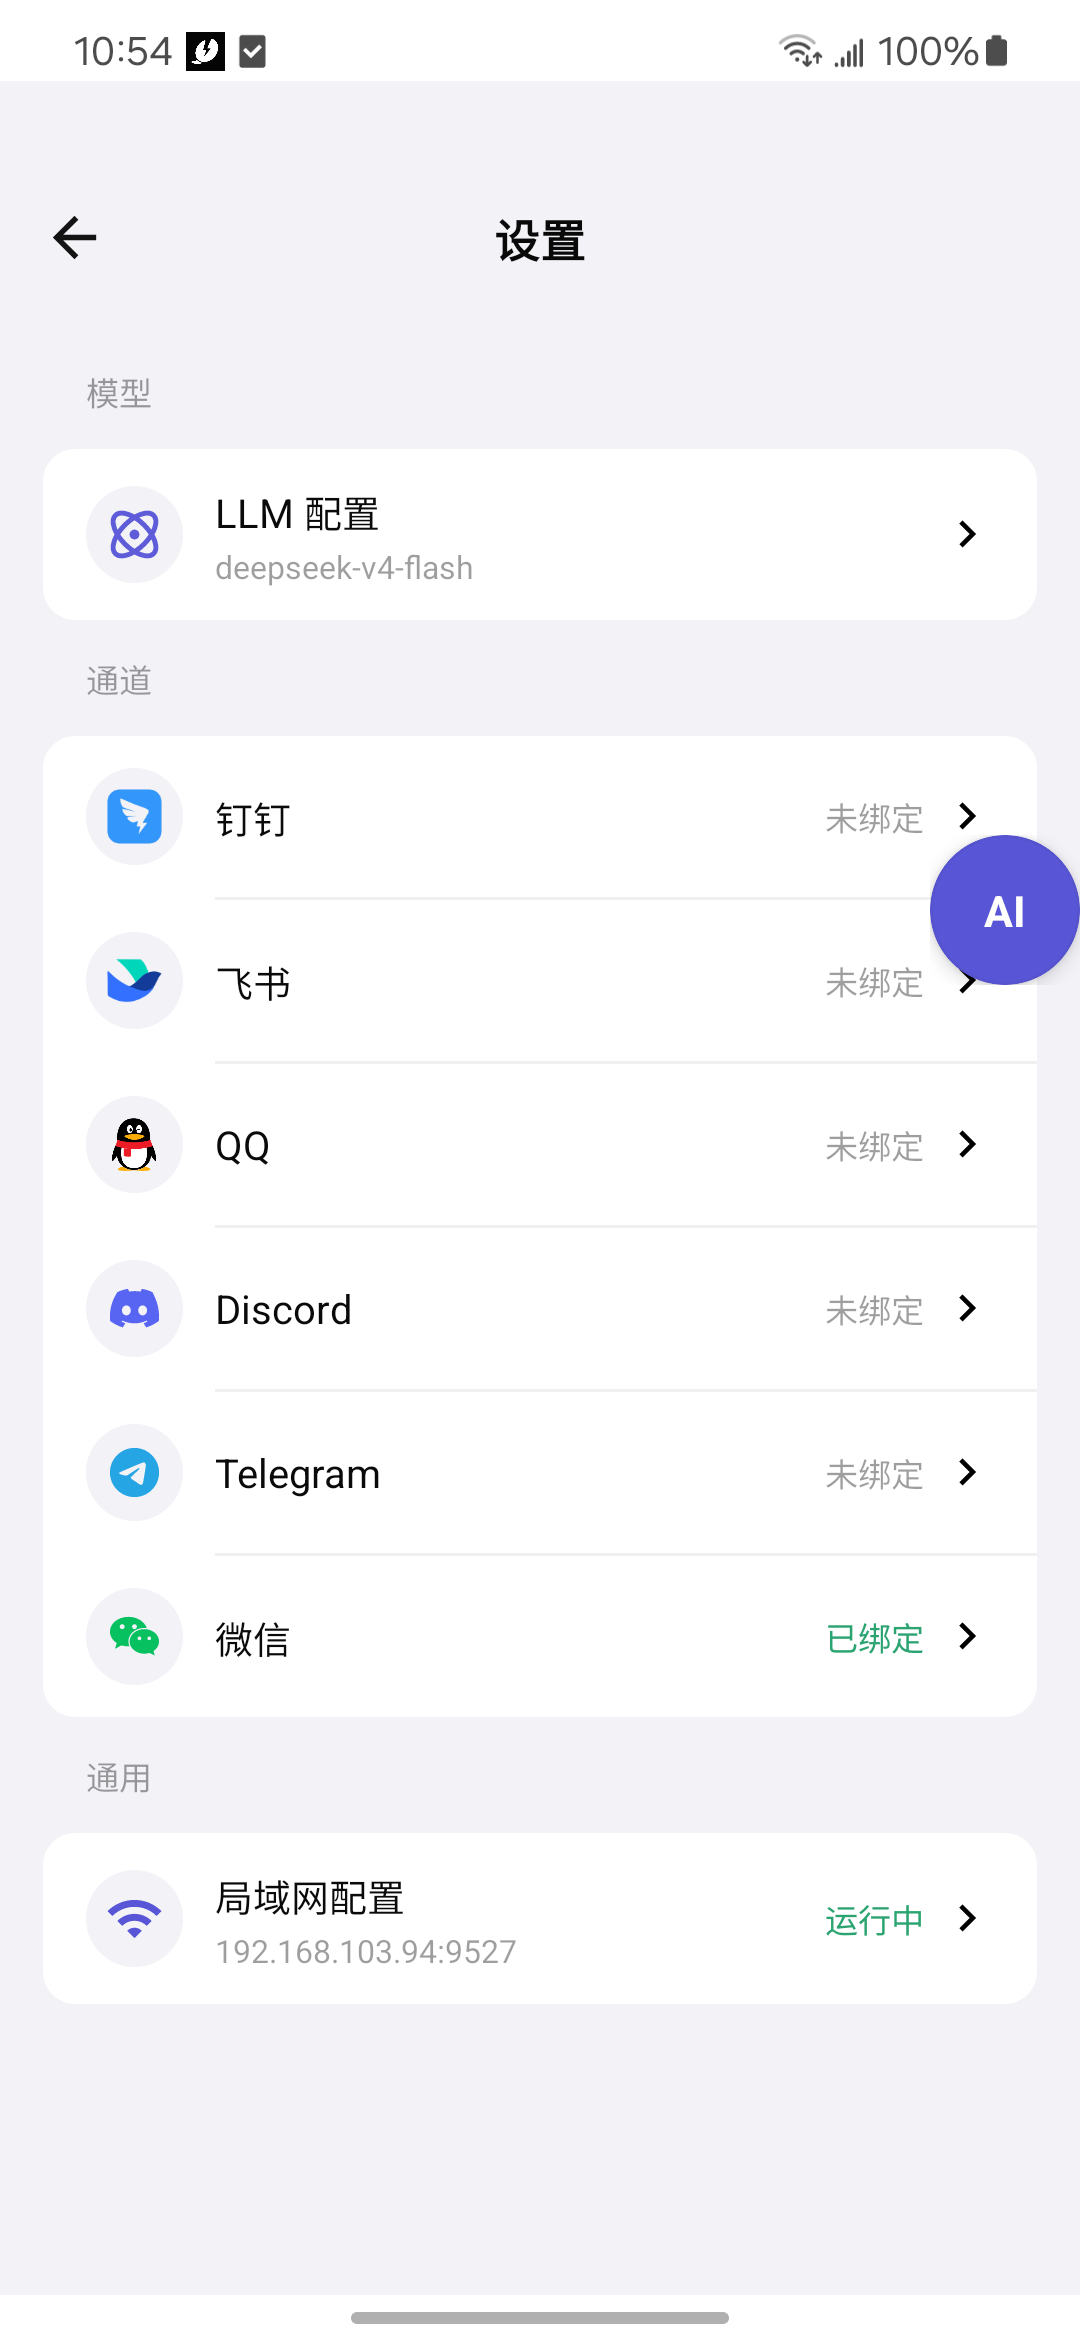
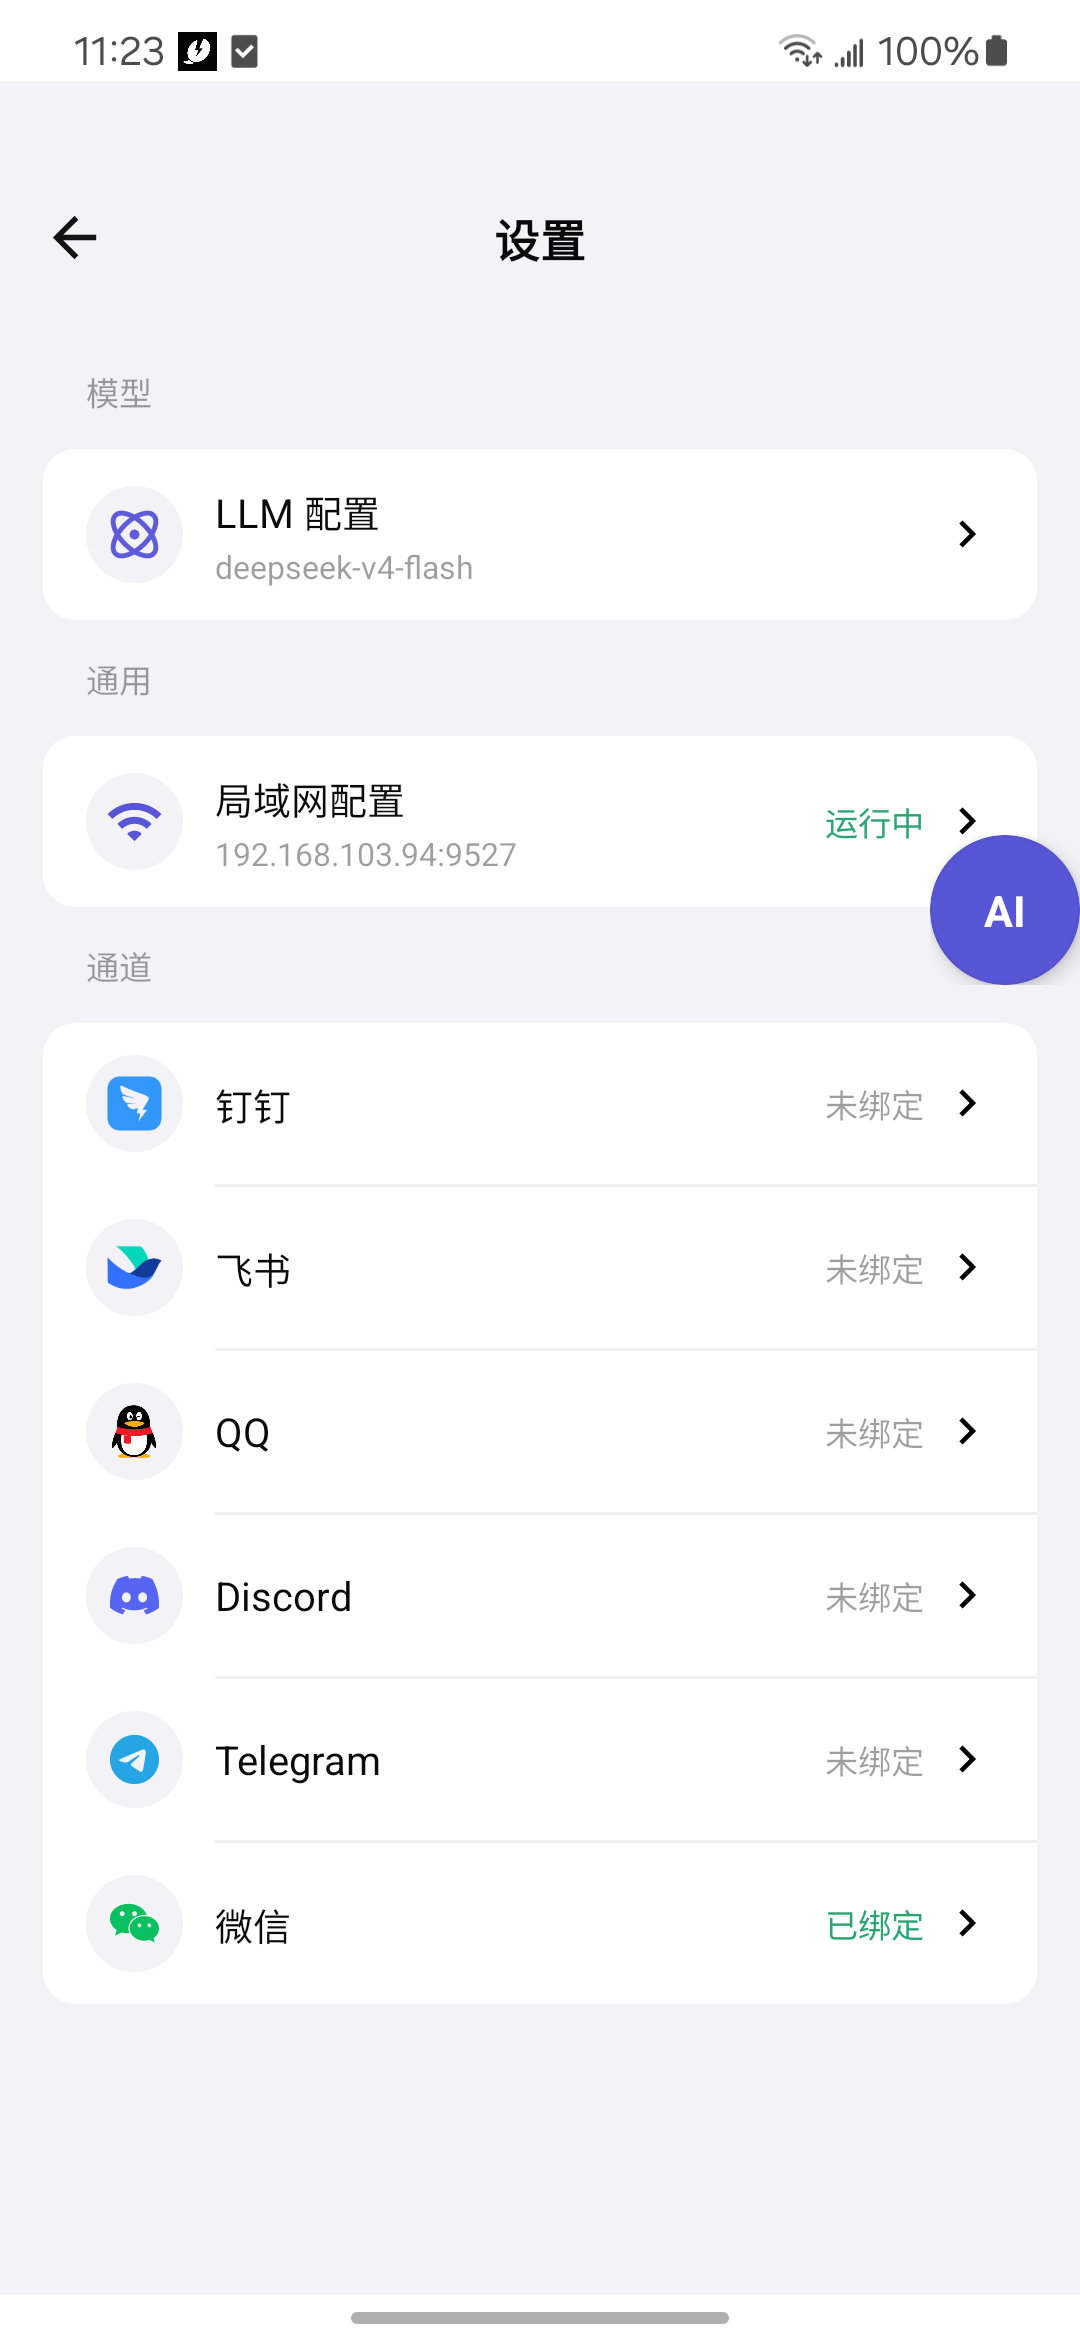
ui: move channels group to bottom on both LAN config page and in-app settings

diff --git a/app/src/main/assets/web/index.html b/app/src/main/assets/web/index.html
@@ -271,86 +271,6 @@ button { font: inherit; cursor: pointer; }
       <p class="hint" data-i18n="llm_tip"></p>
     </div>
 
-    <div class="card">
-      <div class="card-head">
-        <span class="tile"><svg viewBox="0 0 24 24" fill="none" stroke="currentColor" stroke-width="1.8" stroke-linecap="round" stroke-linejoin="round"><path d="M21 11.5a8.5 8.5 0 0 1-8.5 8.5c-1.52 0-2.96-.4-4.2-1.1L3 20l1.1-4.3A8.5 8.5 0 1 1 21 11.5z"/></svg></span>
-        <span class="card-title" data-i18n="chan_title"></span>
-      </div>
-
-      <div class="chan">
-        <div class="chan-head dingtalk"><span class="dot"></span><span data-i18n="dingtalk"></span></div>
-        <div class="field">
-          <label>Client ID</label>
-          <input type="text" id="dingtalkAppKey" data-i18n-placeholder="ph_dingtalk_id" autocomplete="off">
-        </div>
-        <div class="field">
-          <label>Client Secret</label>
-          <div class="input-wrap">
-            <input type="password" id="dingtalkAppSecret" data-i18n-placeholder="ph_dingtalk_secret" autocomplete="off">
-            <button class="toggle-eye" onclick="togglePassword('dingtalkAppSecret', this)" data-i18n-title="toggle_visibility"></button>
-          </div>
-        </div>
-      </div>
-
-      <div class="divider"></div>
-      <div class="chan">
-        <div class="chan-head feishu"><span class="dot"></span><span data-i18n="feishu"></span></div>
-        <div class="field">
-          <label>App ID</label>
-          <input type="text" id="feishuAppId" data-i18n-placeholder="ph_feishu_id" autocomplete="off">
-        </div>
-        <div class="field">
-          <label>App Secret</label>
-          <div class="input-wrap">
-            <input type="password" id="feishuAppSecret" data-i18n-placeholder="ph_feishu_secret" autocomplete="off">
-            <button class="toggle-eye" onclick="togglePassword('feishuAppSecret', this)" data-i18n-title="toggle_visibility"></button>
-          </div>
-        </div>
-      </div>
-
-      <div class="divider"></div>
-      <div class="chan">
-        <div class="chan-head qq"><span class="dot"></span>QQ</div>
-        <div class="field">
-          <label>App ID</label>
-          <input type="text" id="qqAppId" data-i18n-placeholder="ph_qq_id" autocomplete="off">
-        </div>
-        <div class="field">
-          <label>App Secret</label>
-          <div class="input-wrap">
-            <input type="password" id="qqAppSecret" data-i18n-placeholder="ph_qq_secret" autocomplete="off">
-            <button class="toggle-eye" onclick="togglePassword('qqAppSecret', this)" data-i18n-title="toggle_visibility"></button>
-          </div>
-        </div>
-      </div>
-
-      <div class="divider"></div>
-      <div class="chan">
-        <div class="chan-head discord"><span class="dot"></span>Discord</div>
-        <div class="field">
-          <label>Bot Token</label>
-          <div class="input-wrap">
-            <input type="password" id="discordBotToken" data-i18n-placeholder="ph_discord_token" autocomplete="off">
-            <button class="toggle-eye" onclick="togglePassword('discordBotToken', this)" data-i18n-title="toggle_visibility"></button>
-          </div>
-        </div>
-        <p class="hint" data-i18n="discord_tip"></p>
-      </div>
-
-      <div class="divider"></div>
-      <div class="chan">
-        <div class="chan-head telegram"><span class="dot"></span>Telegram</div>
-        <div class="field">
-          <label>Bot Token</label>
-          <div class="input-wrap">
-            <input type="password" id="telegramBotToken" data-i18n-placeholder="ph_telegram_token" autocomplete="off">
-            <button class="toggle-eye" onclick="togglePassword('telegramBotToken', this)" data-i18n-title="toggle_visibility"></button>
-          </div>
-        </div>
-        <p class="hint" data-i18n="telegram_tip"></p>
-      </div>
-    </div>
-
     <!-- ==================== 自动化 ==================== -->
     <div class="sec" data-i18n="sec_automation"></div>
 
@@ -584,6 +504,87 @@ button { font: inherit; cursor: pointer; }
       </div>
       <p class="hint" data-i18n="stats_tip"></p>
     </div>
+
+    <!-- ==================== 消息通道（置底） ==================== -->
+    <div class="card" style="margin-top:22px;">
+      <div class="card-head">
+        <span class="tile"><svg viewBox="0 0 24 24" fill="none" stroke="currentColor" stroke-width="1.8" stroke-linecap="round" stroke-linejoin="round"><path d="M21 11.5a8.5 8.5 0 0 1-8.5 8.5c-1.52 0-2.96-.4-4.2-1.1L3 20l1.1-4.3A8.5 8.5 0 1 1 21 11.5z"/></svg></span>
+        <span class="card-title" data-i18n="chan_title"></span>
+      </div>
+
+      <div class="chan">
+        <div class="chan-head dingtalk"><span class="dot"></span><span data-i18n="dingtalk"></span></div>
+        <div class="field">
+          <label>Client ID</label>
+          <input type="text" id="dingtalkAppKey" data-i18n-placeholder="ph_dingtalk_id" autocomplete="off">
+        </div>
+        <div class="field">
+          <label>Client Secret</label>
+          <div class="input-wrap">
+            <input type="password" id="dingtalkAppSecret" data-i18n-placeholder="ph_dingtalk_secret" autocomplete="off">
+            <button class="toggle-eye" onclick="togglePassword('dingtalkAppSecret', this)" data-i18n-title="toggle_visibility"></button>
+          </div>
+        </div>
+      </div>
+
+      <div class="divider"></div>
+      <div class="chan">
+        <div class="chan-head feishu"><span class="dot"></span><span data-i18n="feishu"></span></div>
+        <div class="field">
+          <label>App ID</label>
+          <input type="text" id="feishuAppId" data-i18n-placeholder="ph_feishu_id" autocomplete="off">
+        </div>
+        <div class="field">
+          <label>App Secret</label>
+          <div class="input-wrap">
+            <input type="password" id="feishuAppSecret" data-i18n-placeholder="ph_feishu_secret" autocomplete="off">
+            <button class="toggle-eye" onclick="togglePassword('feishuAppSecret', this)" data-i18n-title="toggle_visibility"></button>
+          </div>
+        </div>
+      </div>
+
+      <div class="divider"></div>
+      <div class="chan">
+        <div class="chan-head qq"><span class="dot"></span>QQ</div>
+        <div class="field">
+          <label>App ID</label>
+          <input type="text" id="qqAppId" data-i18n-placeholder="ph_qq_id" autocomplete="off">
+        </div>
+        <div class="field">
+          <label>App Secret</label>
+          <div class="input-wrap">
+            <input type="password" id="qqAppSecret" data-i18n-placeholder="ph_qq_secret" autocomplete="off">
+            <button class="toggle-eye" onclick="togglePassword('qqAppSecret', this)" data-i18n-title="toggle_visibility"></button>
+          </div>
+        </div>
+      </div>
+
+      <div class="divider"></div>
+      <div class="chan">
+        <div class="chan-head discord"><span class="dot"></span>Discord</div>
+        <div class="field">
+          <label>Bot Token</label>
+          <div class="input-wrap">
+            <input type="password" id="discordBotToken" data-i18n-placeholder="ph_discord_token" autocomplete="off">
+            <button class="toggle-eye" onclick="togglePassword('discordBotToken', this)" data-i18n-title="toggle_visibility"></button>
+          </div>
+        </div>
+        <p class="hint" data-i18n="discord_tip"></p>
+      </div>
+
+      <div class="divider"></div>
+      <div class="chan">
+        <div class="chan-head telegram"><span class="dot"></span>Telegram</div>
+        <div class="field">
+          <label>Bot Token</label>
+          <div class="input-wrap">
+            <input type="password" id="telegramBotToken" data-i18n-placeholder="ph_telegram_token" autocomplete="off">
+            <button class="toggle-eye" onclick="togglePassword('telegramBotToken', this)" data-i18n-title="toggle_visibility"></button>
+          </div>
+        </div>
+        <p class="hint" data-i18n="telegram_tip"></p>
+      </div>
+    </div>
   </div>
 </div>
 
@@ -599,7 +600,7 @@ const i18nMessages = {
   'zh': {
     title: 'ApkClaw 配置',
     subtitle: '在此页面配置 LLM 与钉钉、飞书、QQ、Discord、Telegram 的应用凭证',
-    sec_basic: '基础配置',
+    sec_basic: '模型',
     sec_automation: '自动化',
     sec_assistant: '助手',
     sec_logs: '运行记录',
@@ -753,7 +754,7 @@ const i18nMessages = {
   'en': {
     title: 'ApkClaw Config',
     subtitle: 'Configure LLM and credentials for DingTalk, Feishu, QQ, Discord, Telegram',
-    sec_basic: 'Basics',
+    sec_basic: 'Model',
     sec_automation: 'Automation',
     sec_assistant: 'Assistant',
     sec_logs: 'Activity',
@@ -907,7 +908,7 @@ const i18nMessages = {
   'ja': {
     title: 'ApkClaw 設定',
     subtitle: 'LLM と DingTalk、Feishu、QQ、Discord、Telegram の資格情報を設定',
-    sec_basic: '基本設定',
+    sec_basic: 'モデル',
     sec_automation: '自動化',
     sec_assistant: 'アシスタント',
     sec_logs: '活動記録',
